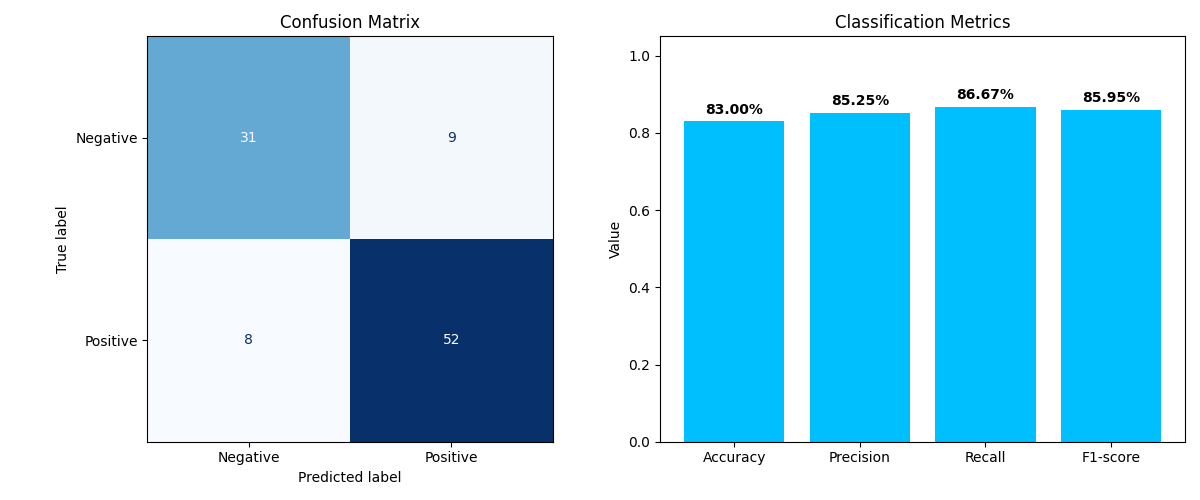
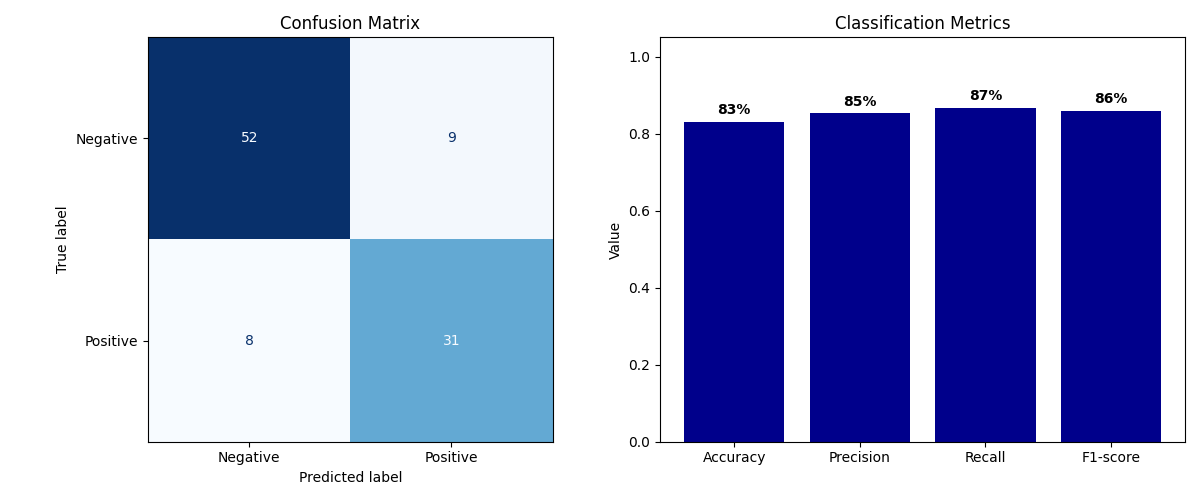
Added a plot for Multiclass Metrics

diff --git a/differences.py b/differences.py
@@ -241,11 +241,11 @@ def visualize_results(test_im, best_image, final_mask,
     plt.tight_layout()
     plt.show()
 
-# Function to plot the metrics
-def plot_metrics(tp, tn, fp, fn):
+# Function to plot the binary metrics
+def plot_binary_metrics(tp, tn, fp, fn):
     # Build the confusion matrix
-    conf_matrix = np.array([[tn, fp],
-                            [fn, tp]])
+    conf_matrix = np.array([[tp, fp],
+                            [fn, tn]])
 
     # Calculate static metrics
     accuracy = (tp + tn) / (tp + tn + fp + fn)
@@ -266,13 +266,57 @@ def plot_metrics(tp, tn, fp, fn):
     axs[0].set_title("Confusion Matrix")
 
     # --- Classification metrics plot ---
-    axs[1].bar(metric_names, metric_values, color='deepskyblue')
+    axs[1].bar(metric_names, metric_values, color='darkblue')
     axs[1].set_ylim(0, 1.05)
     axs[1].set_ylabel("Value")
     axs[1].set_title("Classification Metrics")
     for i, v in enumerate(metric_values):
-        axs[1].text(i, v+0.02, f"{v*100:.2f}%", ha='center', fontweight='bold')
+        axs[1].text(i, v+0.02, f"{v*100:.0f}%", ha='center', fontweight='bold')
 
+    plt.tight_layout()
+    plt.show()
+
+# Function to plot the multiclass metrics
+def plot_multiclass_metrics(classes, true_positiveM, true_negativeM, false_positiveM, false_negativeM):
+    # Calculate multiclass accuracy per class
+    accuracy = [(tp + tn) / (tp + tn + fp + fn) if (tp + tn + fp + fn) > 0 else 0 for tp, tn, fp, fn in zip(true_positiveM, true_negativeM, false_positiveM, false_negativeM)]
+
+    # Calulate multiclass precision
+    precision = [tp / (tp + fp) if (tp + fp) > 0 else 0 for tp, fp in zip(true_positiveM, false_positiveM)]
+
+    # Calculate multiclass recall
+    recall = [tp / (tp + fn) if (tp + fn) > 0 else 0 for tp, fn in zip(true_positiveM, false_negativeM)]
+
+    # Calculate multiclass F1 score
+    f1_score = [2 * (p * r) / (p + r) if (p + r) > 0 else 0 for p, r in zip(precision, recall)]
+
+    metrics = [accuracy, precision, recall, f1_score]
+    colors = ['darkblue', 'royalblue', 'dodgerblue', 'lightskyblue']
+    labels = ['ACCURACY', 'PRECISION', 'RECALL', 'F1-SCORE']
+
+    x = np.arange(len(classes))  # the label locations
+    width = 0.2  # width of the bars
+
+    fig, ax = plt.subplots(figsize=(12, 6))
+    
+    for i, metric in enumerate(metrics):
+        bars = ax.bar(x + i * width, metric, width, label=labels[i], color=colors[i])
+        # Add text labels above bars
+        for bar in bars:
+            height = bar.get_height()
+            ax.annotate(f'{height * 100:.0f}%',
+                        xy=(bar.get_x() + bar.get_width() / 2, height),
+                        xytext=(0, 3),  # vertical offset
+                        textcoords="offset points",
+                        ha='center', va='bottom', fontsize=8, fontweight='bold')
+
+    ax.set_ylabel('Score')
+    ax.set_title("Classification Metrics per Class")
+    ax.set_xticks(x + 1.5 * width)
+    ax.set_xticklabels(classes)
+    ax.legend()
+    #ax.grid(True, linestyle='--', linewidth=0.5)
+    
     plt.tight_layout()
     plt.show()
 
@@ -292,6 +336,13 @@ def differences(view=False, viewMetrics=False):
  
     print('Number of test images:', len(test_images))
     total_correctM = 0
+
+    classes = ['good', 'bent_lead', 'cut_lead', 'damaged_case', 'misplaced']
+    true_positiveM = [0] * len(classes)
+    false_positiveM = [0] * len(classes)
+    false_negativeM = [0] * len(classes)
+    true_negativeM = [0] * len(classes)
+
     total_correctB = 0
 
     # Binary classification metrics
@@ -402,17 +453,24 @@ def differences(view=False, viewMetrics=False):
         if final_classM == real_class:
             total_correctM += 1
 
+        # Get the metric values for multi-class classification
+        for i, cls in enumerate(classes):
+            if final_classM == cls:
+                if real_class == cls:
+                    true_positiveM[i] += 1
+                else:
+                    false_positiveM[i] += 1
+            else:
+                if real_class == cls:
+                    false_negativeM[i] += 1
+                else:
+                    true_negativeM[i] += 1
+
         # Get the final class for binary classification
-        if final_classM == 'good':
-            final_classB = 'good'
-        else:
-            final_classB = 'defected'
+        final_classB = 'good' if final_classM == 'good' else 'defected'
 
         # Get the real class for binary classification
-        if real_class == 'good':
-            real_classB = 'good'
-        else:
-            real_classB = 'defected'
+        real_classB = 'good' if real_class == 'good' else 'defected'
 
         # Get the metric values for binary classification and increment the total correct count
         if final_classB == real_classB:
@@ -428,20 +486,20 @@ def differences(view=False, viewMetrics=False):
                 false_negative += 1
         
         # Print the results
-        print("SSIM: {:.2f}".format(best_score))
+        print("SSIM: {:.2f} %".format(best_score*100))
         best_score = best_score * weights['ssim']
-        print("IoU: {:.2f}".format(best_iou))
+        print("IoU: {:.2f} %".format(best_iou*100))
         best_iou = best_iou * weights['iou']
-        print("Dice coefficient: {:.2f}".format(best_dice))
+        print("Dice coefficient: {:.2f} %".format(best_dice*100))
         best_dice = best_dice * weights['dice']
-        print("Pixel accuracy: {:.2f}".format(best_pixel_acc))
+        print("Pixel accuracy: {:.2f} %".format(best_pixel_acc*100))
         best_pixel_acc = best_pixel_acc * weights['pixel_acc']
 
         print()
         print("Class Scores:")
         for cls, score in sorted(class_scoresM.items(), key=lambda x: x[1], reverse=True):
-            print(f" - {cls}: {score:.2f}")
-        print(f"\nFinal Class: {final_classM} with score: {final_scoreM:.2f}")
+            print(f" - {cls}: {score*100:.2f} %")
+        print(f"\nFinal Class: {final_classM} with score: {final_scoreM*100:.2f} %")
         print("Real Class:", real_class)
         print('\n----------------------------------------\n')
 
@@ -456,7 +514,11 @@ def differences(view=False, viewMetrics=False):
             
     # Visualize the binary classification metrics
     if viewMetrics == True:
-        plot_metrics(true_positive, true_negative, false_positive, false_negative)
+        # Plot the binary metrics
+        plot_binary_metrics(true_positive, true_negative, false_positive, false_negative)
+
+        # Plot the multiclass metrics
+        plot_multiclass_metrics(classes, true_positiveM, true_negativeM, false_positiveM, false_negativeM)
         
     # Calculate the final accuracy
     accuracyM = total_correctM / total_images
